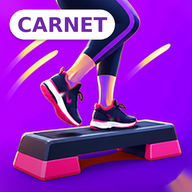
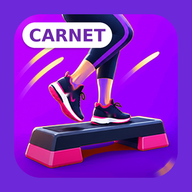
Icône à la couleur de l'activité (charte v1)
Claude-Session: https://claude.ai/code/session_01QNfJk8V2FdZHfoNhsmtJU7

diff --git a/sw.js b/sw.js
@@ -1,5 +1,5 @@
 /* Hors ligne : l'application est mise en cache à la 1re ouverture (Wi-Fi), puis fonctionne sans réseau. */
-const C='carnet-step-v6';
+const C='carnet-step-v7';
 // Toutes les applis partagent le même stockage (même adresse github.io) : on n'efface QUE les anciennes versions de CETTE appli.
 const MES_CACHES=/^carnet-step-v\d+$/;
 
